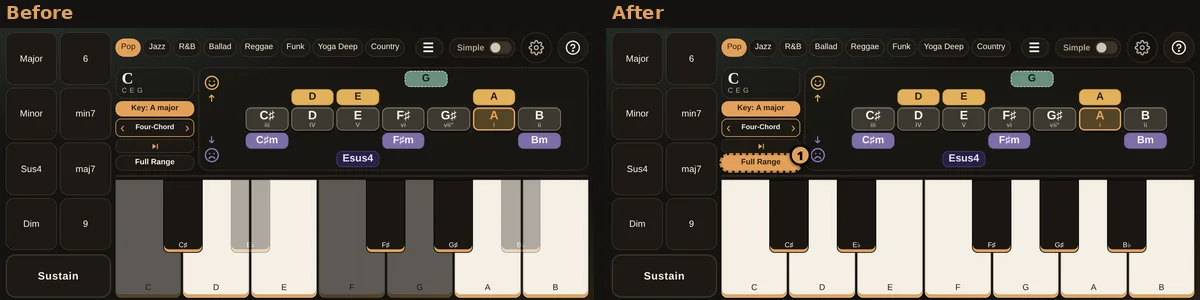
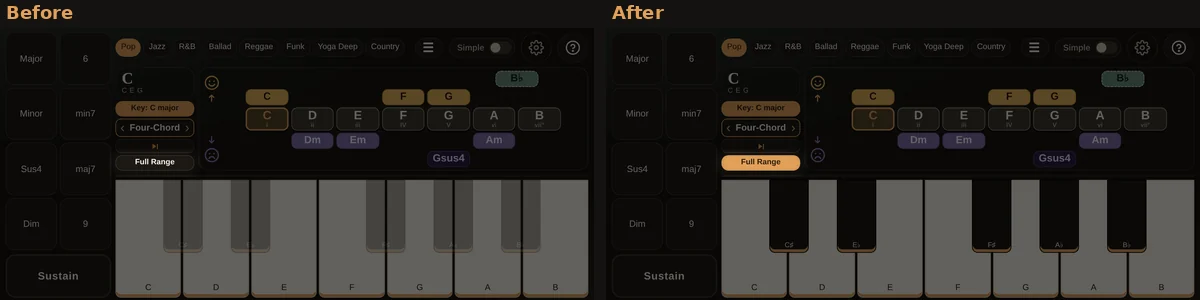
v65: How to rewrite (Welcome intro, 6 steps incl. suggestion grid, Little words to know with yellow word links), Progression numbers on by default

diff --git a/index.html b/index.html
@@ -1110,18 +1110,29 @@ html.lay-phone-land .key-row { display: none; }
 .ht-box { max-width: 1000px; max-height: calc(100vh - 16px); max-height: calc(100dvh - 16px); overflow-y: auto; -webkit-overflow-scrolling: touch; overscroll-behavior: contain; }
 .ht-box img { display: block; max-width: 100%; height: auto; border-radius: 10px; border: 1px solid var(--line); margin: 6px 0; background: #0f0d0b; }
 .ht-box .cap { margin: 2px 0 6px; color: var(--ink); }
-.ht-box .ht-end { margin-top: 18px; }
 /* v58: one list. Intro (picture, two short lines), then steps 1-6; full-mode steps carry a pill. */
 .ht-box .ht-why { margin: 4px 0 0; }
-.ht-box .ht-uses { margin: 2px 0 4px; color: var(--muted); }
 .ht-box ol.ht-steps { list-style: none; margin: 0; padding: 0; }
 .ht-box ol.ht-steps > li { margin: 0; padding: 0; }
 .ht-pill { display: inline-block; vertical-align: 2px; margin-left: 6px; padding: 1px 8px; border-radius: 999px; border: 1px solid var(--copper);
   color: var(--ink); background: rgba(200, 140, 70, .14); font-size: 11px; font-weight: 700; line-height: 1.4; letter-spacing: .02em; white-space: nowrap; }
-.ht-legend { display: grid; grid-template-columns: auto 1fr; gap: 4px 12px; font-size: 13px; margin: 6px 0 0; opacity: .85; }
-.ht-legend dt { font-weight: 700; } .ht-legend dd { margin: 0; }
 .ht-box p, .ht-box li { font-size: 14px; line-height: 1.45; }
 .ht-box ol, .ht-box ul { margin: 4px 0; padding-left: 20px; }
+/* v65: Welcome intro, sub-steps, yellow word links and the "Little words to know" box. */
+.ht-box .ht-thanks { margin-top: 8px; color: var(--muted); font-style: italic; }
+.ht-box a.ht-term { color: #f3c64f; font-weight: 700; text-decoration: underline dotted rgba(243,198,79,.7); text-underline-offset: 3px; -webkit-tap-highlight-color: transparent; }
+.ht-box a.ht-term:active { color: #ffe08a; }
+.ht-box ol.ht-sub { list-style: decimal; margin: 4px 0 2px; padding-left: 22px; }
+.ht-box ol.ht-sub > li { margin: 3px 0; padding-left: 2px; }
+.ht-box ol.ht-sub > li::marker { color: var(--copper); font-weight: 700; }
+.ht-box .ht-note { margin: 6px 0 6px; font-size: 13px; color: var(--muted); }
+.ht-words { margin-top: 18px; padding: 10px 12px 8px; border: 1px solid var(--line); border-top: 2px solid var(--copper); border-radius: 12px; background: rgba(226,161,90,.06); }
+.ht-box .ht-words h3 { margin: 0 0 6px; }
+.ht-words dl { margin: 0; display: grid; gap: 6px; }
+.ht-words dl > div { display: grid; grid-template-columns: 92px 1fr; gap: 8px; align-items: baseline; padding: 4px 6px; border-radius: 8px; transition: background .6s; outline: none; }
+.ht-words dt { font-weight: 700; color: #f3c64f; font-size: 14px; }
+.ht-words dd { margin: 0; font-size: 14px; line-height: 1.4; }
+.ht-words dl > div.ht-hit { background: rgba(243,198,79,.18); transition: background .15s; }
 
 /* v31: chord-type gating */
 .kb .pad.nochord { opacity: 0.32; }
@@ -1573,7 +1584,7 @@ html:not(.simple) .ss.tight .ss-chip.sq { padding-left: 0; padding-right: 0; }
     <div class="config" id="configWrap">
       <button id="configBtn" type="button" class="top-btn config-btn icon-btn" aria-haspopup="menu" aria-expanded="false" aria-controls="configMenu" aria-label="Config" title="Config"><svg viewBox="0 0 24 24" width="22" height="22" aria-hidden="true" fill="none" stroke="currentColor" stroke-width="2" stroke-linecap="round" stroke-linejoin="round"><circle cx="12" cy="12" r="3"/><path d="M19.4 15a1.65 1.65 0 0 0 .33 1.82l.06.06a2 2 0 1 1-2.83 2.83l-.06-.06a1.65 1.65 0 0 0-1.82-.33 1.65 1.65 0 0 0-1 1.51V21a2 2 0 1 1-4 0v-.09A1.65 1.65 0 0 0 9 19.4a1.65 1.65 0 0 0-1.82.33l-.06.06a2 2 0 1 1-2.83-2.83l.06-.06A1.65 1.65 0 0 0 4.68 15a1.65 1.65 0 0 0-1.51-1H3a2 2 0 1 1 0-4h.09A1.65 1.65 0 0 0 4.6 9a1.65 1.65 0 0 0-.33-1.82l-.06-.06a2 2 0 1 1 2.83-2.83l.06.06A1.65 1.65 0 0 0 9 4.68a1.65 1.65 0 0 0 1-1.51V3a2 2 0 1 1 4 0v.09a1.65 1.65 0 0 0 1 1.51 1.65 1.65 0 0 0 1.82-.33l.06-.06a2 2 0 1 1 2.83 2.83l-.06.06A1.65 1.65 0 0 0 19.4 9a1.65 1.65 0 0 0 1.51 1H21a2 2 0 1 1 0 4h-.09a1.65 1.65 0 0 0-1.51 1z"/></svg></button>
       <div id="configMenu" class="config-menu" role="menu" aria-label="Configuration" hidden>
-        <button id="progNumsBtn" type="button" role="menuitemcheckbox" aria-checked="false" class="cfg-toggle"><span>Progression numbers</span><span class="tgl" aria-hidden="true"></span></button>
+        <button id="progNumsBtn" type="button" role="menuitemcheckbox" aria-checked="true" class="cfg-toggle on"><span>Progression numbers</span><span class="tgl" aria-hidden="true"></span></button>
         <button id="factoryReset" type="button" role="menuitem" class="danger">Factory reset</button>
         <div id="appVersion" class="app-version" aria-live="off"></div>
       </div>
@@ -1584,31 +1595,45 @@ html:not(.simple) .ss.tight .ss-chip.sq { padding-left: 0; padding-right: 0; }
     <div class="ht-box">
       <div class="ht-bar"><button type="button" class="ht-x" aria-label="Close">&#10005;</button></div>
       <section class="ht-intro">
-      <img src="images/howto-why.webp?v=64" alt="Touch Chord in Simple mode: Now, key, Sustain and the chord grid" width="1000" height="462" loading="lazy" decoding="async">
-      <p class="ht-why">Touch Chord turns one finger into a full chord. No music reading needed.</p>
-      <p class="ht-uses">Learn chords &middot; Sing along &middot; Start a song.</p></section>
+      <img src="images/howto-why.webp?v=65" alt="Touch Chord in Simple mode: Now, key, Sustain and the chord grid" width="1000" height="462" loading="lazy" decoding="async">
+      <p class="ht-why">Welcome to Touch Chord. Every song that ever stayed with you, the one from a summer night or a long drive home, began with a few chords that belonged together. Touch Chord is your chord progression generator. You have a family of chords at your fingertips, ones that have always known how to harmonize with each other.</p>
+      <p class="ht-why ht-thanks">Thank you for being here. May you find your expression in music, and create something amazing.</p></section>
       <ol class="ht-steps">
-      <li><section><h3>1. Play chord suggestion</h3>
-      <img src="images/howto-simple-1-play-suggestion.webp?v=64" alt="Key note and Major/Minor, a chord chip, and the song picker" width="1000" height="462" loading="lazy" decoding="async">
-      <p class="cap">Swipe the note (1) to pick the key, and tap for <b>Major</b> or <b>Minor</b>. Then tap a chord (2) to play it. &#8249; &#8250; (3) picks a song, and <b>Next</b> plays it one chord at a time.</p></section></li>
+      <li><section><h3>1. Play chord progressions</h3>
+      <img src="images/howto-simple-1-play-progressions.webp?v=65" alt="Key note (1), Major/Minor (2), the Four-Chord picker (3) and the Dm chord (4); order numbers 1 to 4 on C, G, Am and F" width="1000" height="462" loading="lazy" decoding="async">
+      <ol class="ht-sub">
+        <li><b>Select <a class="ht-term" href="#gl-key">key</a>.</b> Swipe the <a class="ht-term" href="#gl-note">note</a> to choose your song&#8217;s home.</li>
+        <li><b>Choose <a class="ht-term" href="#gl-key">Major</a> or <a class="ht-term" href="#gl-key">Minor</a>.</b> <a class="ht-term" href="#gl-key">Major</a> sounds happy, and <a class="ht-term" href="#gl-key">Minor</a> sounds sad.</li>
+        <li><b>Pick a <a class="ht-term" href="#gl-progression">chord progression</a>.</b> Choose a set of <a class="ht-term" href="#gl-chord">chords</a> that belong together.</li>
+        <li><b>Make a <a class="ht-term" href="#gl-chord">chord</a> yourself.</b></li>
+      </ol>
+      <p class="ht-note">* The numbers on the <a class="ht-term" href="#gl-chord">chords</a> show the order to play them in the <a class="ht-term" href="#gl-progression">progression</a>.</p></section></li>
       <li><section><h3>2. Sustain</h3>
-      <img src="images/howto-simple-4-sustain.webp?v=64" alt="Sustain lit while the chord rings" width="1000" height="462" loading="lazy" decoding="async">
+      <img src="images/howto-simple-4-sustain.webp?v=65" alt="Sustain lit while the chord rings" width="1000" height="462" loading="lazy" decoding="async">
       <p class="cap">Play (1), hold <b>Sustain</b> (2): notes ring and fade. Let go to stop.</p></section></li>
       <li><section><h3>3. Style</h3>
-      <img src="images/howto-simple-5-style.webp?v=64" alt="Style picker" width="1000" height="462" loading="lazy" decoding="async">
-      <p class="cap">Tap a style (1). It changes the sound and the chords.</p></section></li>
-      <li><section><h3>4. Make a chord <span class="ht-pill">Full mode</span></h3>
-      <img src="images/howto-full-2-make-chord.webp?v=64" alt="Hold maj7, tap A, Now reads Amaj7" width="1000" height="462" loading="lazy" decoding="async">
-      <p class="cap">Hold <b>maj7</b> (1), tap <b>A</b> (2) = <b>Amaj7</b>.</p></section></li>
-      <li><section><h3>5. Keyboard <span class="ht-pill">Full mode</span></h3>
-      <img src="images/howto-full-3-keyboard.webp?v=64" alt="Piano keyboard: each key plays a chord" width="1000" height="462" loading="lazy" decoding="async">
-      <p class="cap">Tap a key (1) to play its chord.</p></section></li>
+      <img src="images/howto-simple-5-style.webp?v=65" alt="Style picker" width="1000" height="462" loading="lazy" decoding="async">
+      <p class="cap">Tap a style. It changes the sound and the <a class="ht-term" href="#gl-chord">chords</a>.</p></section></li>
+      <li><section><h3>4. Understand the suggestion grid</h3>
+      <img src="images/howto-simple-6-grid.webp?v=65" alt="The suggestion grid: happy chords above the smiley, sad chords below the frown" width="1000" height="462" loading="lazy" decoding="async">
+      <p class="cap">The <a class="ht-term" href="#gl-chord">chords</a> on the right are picked just for you, and every one sounds good in your <a class="ht-term" href="#gl-key">key</a> and <a class="ht-term" href="#gl-style">style</a>. Happy <a class="ht-term" href="#gl-chord">chords</a> sit above the smiley face, and sad ones sit below the frown. Tap any <a class="ht-term" href="#gl-chord">chord</a> to play it, and the grid shows you what could come next. Swipe the <a class="ht-term" href="#gl-key">key</a> left to go lower, or right to go higher.</p></section></li>
+      <li><section><h3>5. Make a chord <span class="ht-pill">Full mode</span></h3>
+      <img src="images/howto-full-2-make-chord.webp?v=65" alt="Hold maj7, tap A, Now reads Amaj7" width="1000" height="462" loading="lazy" decoding="async">
+      <p class="cap">Want to make your own <a class="ht-term" href="#gl-chord">chord</a>? For A major 7, hold <b>Major 7</b> in the chord table. Then press <b>A</b> and hear it come alive. Try any shape on any <a class="ht-term" href="#gl-note">note</a>, and explore.</p></section></li>
       <li><section><h3>6. Full Range <span class="ht-pill">Full mode</span></h3>
-      <img src="images/howto-full-4-fullrange.webp?v=64" alt="Before: gray keys. After Full Range: all keys on" width="1200" height="300" loading="lazy" decoding="async">
-      <p class="cap">Gray keys are outside your key. Tap <b>Full Range</b> (1) to play them all.</p></section></li>
+      <img src="images/howto-full-4-fullrange.webp?v=65" alt="Before and after tapping Full Range" width="1200" height="300" loading="lazy" decoding="async">
+      <p class="cap">Full Range enables all keys to be available.</p></section></li>
       </ol>
-      <p class="ht-end">Sound and FX live in the gear's <b>Advanced</b> settings.</p>
-      <dl class="ht-legend"><dt>Simple</dt><dd>Simple on/off</dd><dt>&#9881;</dt><dd>Settings (Advanced: sound, FX)</dd><dt>?</dt><dd>This guide</dd></dl>
+      <section class="ht-words" aria-labelledby="htWordsH">
+        <h3 id="htWordsH">Little words to know</h3>
+        <dl>
+          <div id="gl-chord" tabindex="-1"><dt>Chord</dt><dd>a few notes played together as one sound.</dd></div>
+          <div id="gl-key" tabindex="-1"><dt>Key</dt><dd>the home note your song keeps coming back to.</dd></div>
+          <div id="gl-progression" tabindex="-1"><dt>Progression</dt><dd>a row of chords that a song follows.</dd></div>
+          <div id="gl-style" tabindex="-1"><dt>Style</dt><dd>a mood with its own sound and favorite chords.</dd></div>
+          <div id="gl-note" tabindex="-1"><dt>Note</dt><dd>a single sound with its own pitch.</dd></div>
+        </dl>
+      </section>
     </div>
   </div>
   <div id="toast" class="toast" role="status" aria-live="polite"></div>
@@ -1768,7 +1793,7 @@ html:not(.simple) .ss.tight .ss-chip.sq { padding-left: 0; padding-right: 0; }
 <script>
 "use strict";
 // Bump every build. Shown in Config so a cached copy reports its real version.
-var APP_VERSION = 64;
+var APP_VERSION = 65;
 document.addEventListener("DOMContentLoaded", function () {
   var v = document.getElementById("appVersion");
   if (v) v.textContent = "Version " + APP_VERSION;
@@ -5807,6 +5832,25 @@ function accSym(s) {
     function closeHt() { ht.hidden = true; }
     document.getElementById("howtoBtn").addEventListener("click", function () { ht.hidden = false; ht.querySelector(".ht-x").focus(); });
     ht.querySelector(".ht-x").addEventListener("click", closeHt);
+    // v65: yellow words scroll the dialog (not the page, no hash change) to their entry in
+    // "Little words to know" and light it briefly. Works the same on phones (touch) and desktop.
+    var htBox = ht.querySelector(".ht-box"), htHitT = 0;
+    ht.addEventListener("click", function (e) {
+      var a = e.target.closest ? e.target.closest("a.ht-term") : null;
+      if (!a) return;
+      e.preventDefault();
+      var id = (a.getAttribute("href") || "").slice(1), tgt = id && document.getElementById(id);
+      if (!tgt) return;
+      var top = htBox.scrollTop + tgt.getBoundingClientRect().top - htBox.getBoundingClientRect().top - 12;
+      top = Math.max(0, Math.min(top, htBox.scrollHeight - htBox.clientHeight));
+      try { htBox.scrollTo({ top: top, behavior: "smooth" }); } catch (err) { htBox.scrollTop = top; }
+      var hits = ht.querySelectorAll(".ht-words .ht-hit");
+      for (var i = 0; i < hits.length; i++) hits[i].classList.remove("ht-hit");
+      tgt.classList.add("ht-hit");
+      try { tgt.focus({ preventScroll: true }); } catch (err) {}
+      clearTimeout(htHitT);
+      htHitT = setTimeout(function () { tgt.classList.remove("ht-hit"); }, 1600);
+    });
     ht.addEventListener("click", function (e) { if (e.target === ht) closeHt(); });
     document.addEventListener("keydown", function (e) { if (e.key === "Escape") { closeHt(); close(); } });
   }
@@ -6230,7 +6274,9 @@ function accSym(s) {
       warmth: WARMTH_DEFAULT,
       simple: false,
       allKeys: false,
-      progNums: false,
+      // v65: on by default in both modes. A saved false (the switch turned off) is kept;
+      // a missing value (new user, or saved before v60) gets on.
+      progNums: true,
       lockKey: null
     };
   }
